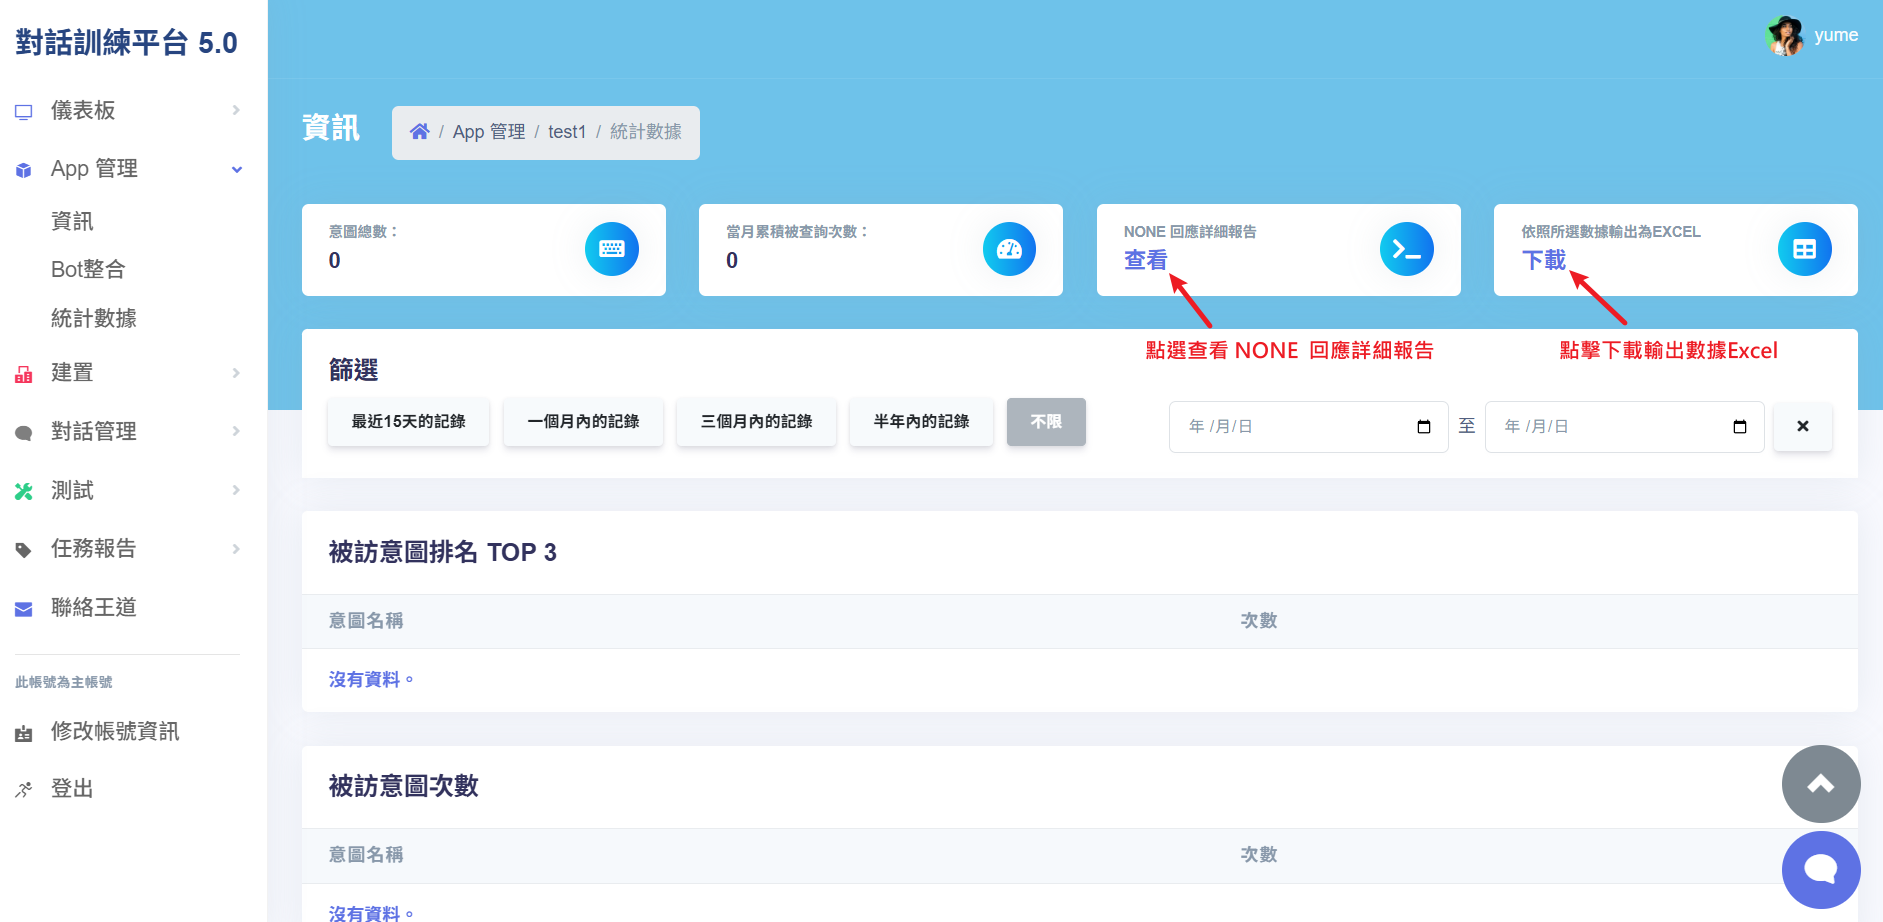
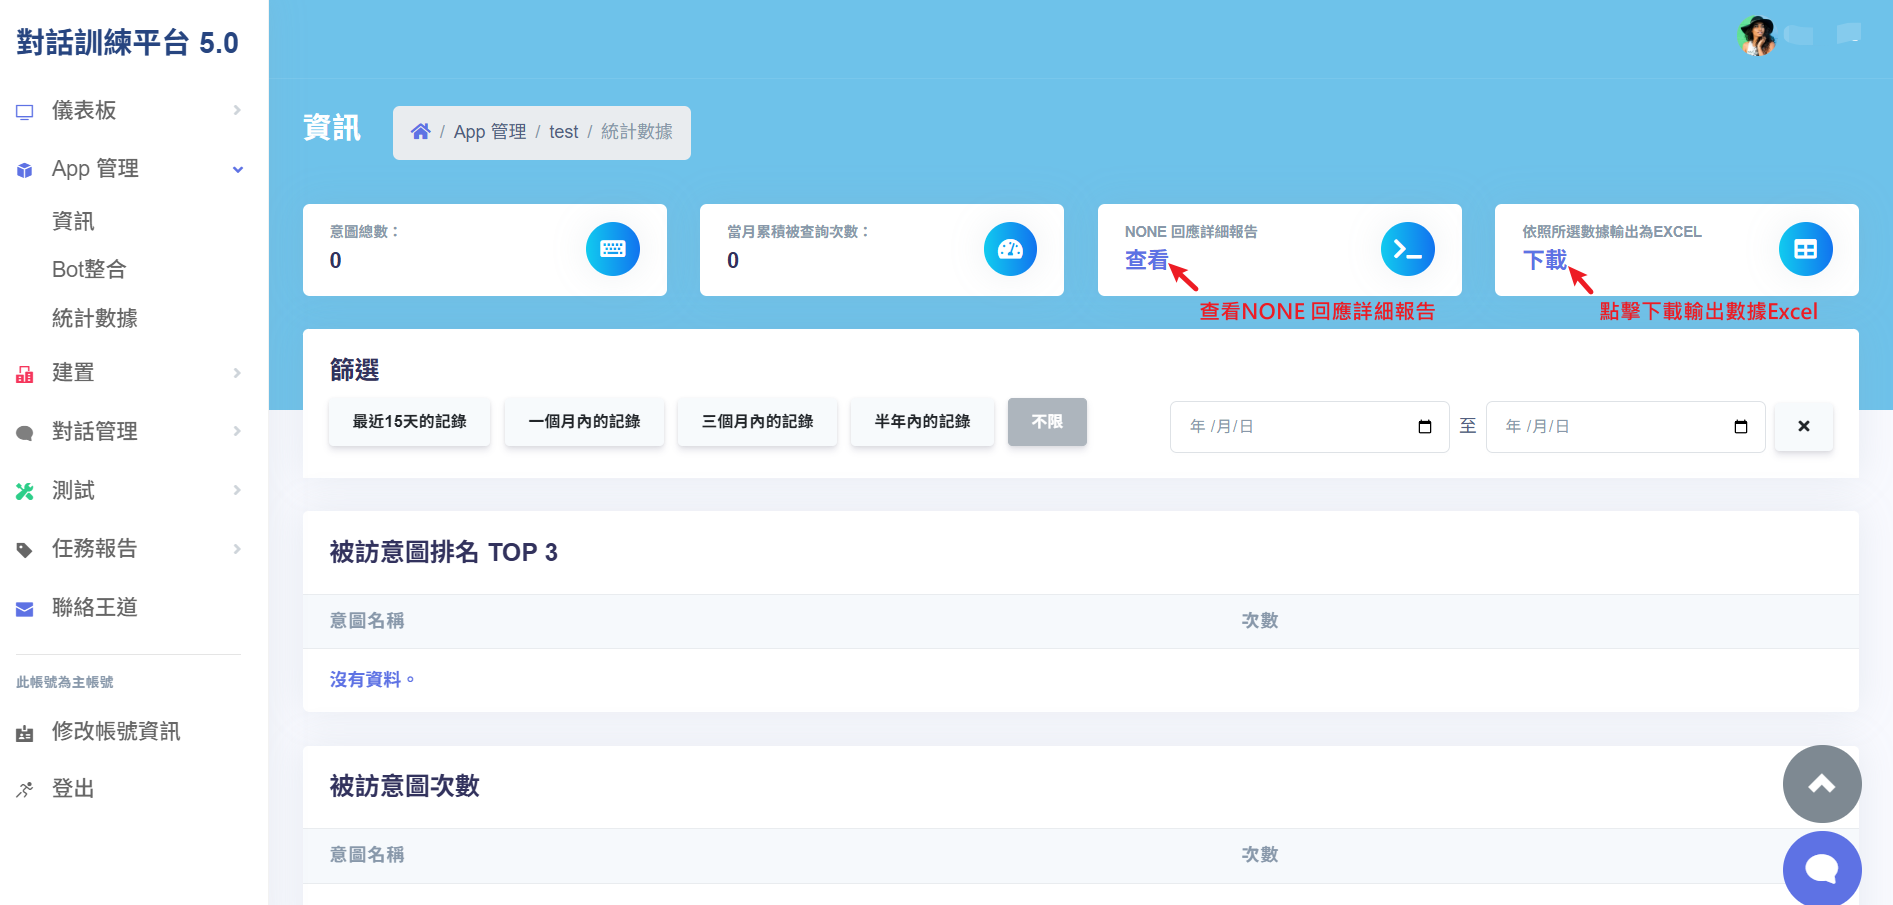
build creating-dialogue 截圖

diff --git a/docs/nlu/Creating-Dialogue.md b/docs/nlu/Creating-Dialogue.md
@@ -28,3 +28,16 @@ sidebar_position: 4
    - 點選左側導航列中的「APP 管理」→「資訊」。
    - 進入資訊頁面後，於「API 資訊」區塊右上角點選「發布」按鈕。
    - 發布成功後，系統將自動更新最新發布日期以及顯示最新 API URL 網址。
+
+![新增任務app](./img/creating-dialogue-01.png)
+![填寫任務app資訊](./img/creating-dialogue-02.png)
+![進入app管理介面](./img/creating-dialogue-03.png)
+![上傳訓練檔](./img/creating-dialogue-04.png)
+![訓練檔匯入中](./img/creating-dialogue-05.png)
+![訓練檔匯入成功](./img/creating-dialogue-06.png)
+![開始訓練](./img/creating-dialogue-07.png)
+![即時任務報告回應](./img/creating-dialogue-08.png)
+![訓練成功](./img/creating-dialogue-09.png)
+![API 發布](./img/creating-dialogue-10.png)
+![API 發布成功](./img/creating-dialogue-11.png)
+![API 資訊](./img/creating-dialogue-12.png)

diff --git a/docs/nlu/app-management/build.md b/docs/nlu/app-management/build.md
@@ -17,6 +17,8 @@ sidebar_position: 1
 4. **訓練**：當訓練燈亮起時，點選此按鈕即可進行意圖訓練。
 5. **Intent list**：可查看所有已建立 Intent 及其各自的語句數量。
 
+![意圖](./img/build-01.png)
+
 ### 實體 Entity (開發中)
 
 1. **Entity 數量**：顯示目前已建立 Entity 數量。
@@ -31,3 +33,6 @@ sidebar_position: 1
   1. 建立檔案與工作表：開啟一個新的 Excel ，並建立兩個工作表，分別命名為「Synonyms (同義詞)」、「Sensitive (敏感詞)」。
   2. 新增同義詞：在 Synonyms (同義詞) 工作表中，將第一列設置為目標詞語。在每個目標詞下方依序輸入對應的同義詞。
   3. 敏感詞新增：在 Sensitive (敏感詞) 工作表中，逐一將敏感詞輸入至欄位中。
+
+![特殊詞](./img/build-02.png)
+![特殊詞excel](./img/build-05.png)

diff --git a/docs/nlu/app-management/test-console.md b/docs/nlu/app-management/test-console.md
@@ -11,3 +11,5 @@ sidebar_position: 3
 
 - **問答測試**：可透過文字輸入來測試系統是否正確辨識意圖並回應正確答案。
 - **對話紀錄**(開發中)：可查看紀錄問答的正式結果(不包含問答測試)。紀錄內容包括詢問時間、詢問內容、其推潤可能的意圖結果及處理反應時間和對應意圖的回答。
+
+![問答測試](./img/test-01.png)

diff --git a/docs/update-log.md b/docs/update-log.md
@@ -6,6 +6,11 @@ sidebar_position: 1
 
 > 新增/修改內容記錄列表
 
+#### 2025/08/21
+
+- app 管理截圖調整
+- 建置、測試、如何訓練app截圖
+
 #### 2025/08/20
 
 - 方案管理、快速使用截圖調整
